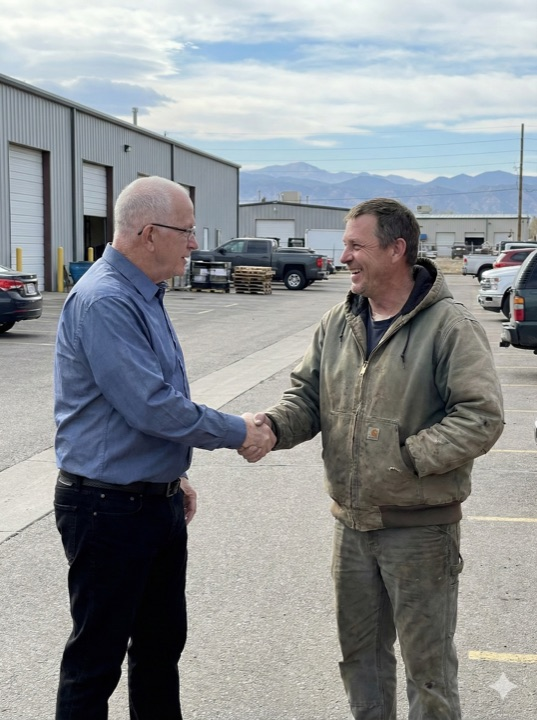
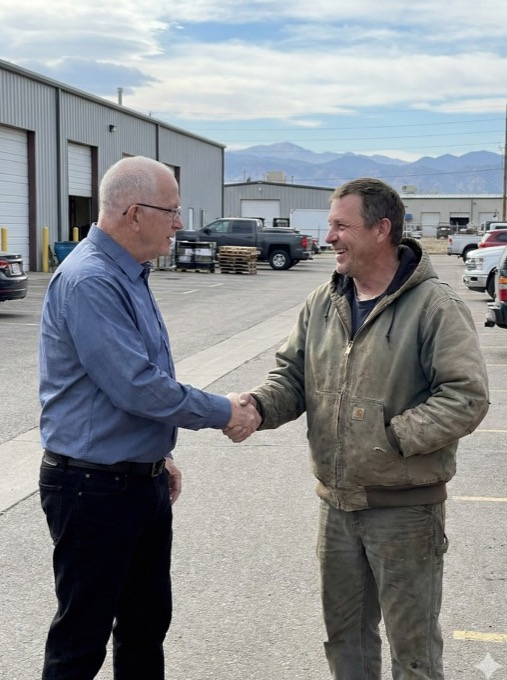
Crop watermark from Colorado image, expand section copy, fix text color
- Cropped Gemini watermark from bottom-right of stu-colorado.jpg
- Expanded Why Colorado Only copy from 2 paragraphs to 3 (roughly doubled)
- Added .content-block--dark class so all paragraphs use primary text color

diff --git a/colorado.html b/colorado.html
@@ -108,9 +108,10 @@
         <h2>Why Colorado Only</h2>
         <div class="about-intro about-intro--wide">
           <img src="images/stu-colorado.jpg" alt="Stu Jensen meeting a fabrication shop owner outside a Colorado manufacturing facility with mountains in the background" class="stu-photo" width="360" loading="eager">
-          <div class="content-block">
-            <p>Stu Jensen has spent his career in Colorado manufacturing. He knows this market. He knows the labor pool, the supply chains, the seasonal patterns, and the specific challenges that come with running a fabrication shop in this state.</p>
-            <p>Working exclusively in Colorado isn't a limitation. It's a focus. It means <a href="about.html" class="text-link">Stu</a> knows your region, your industry peers, and the operating conditions you deal with every day. He's not flying in from out of state to learn your market on your dime.</p>
+          <div class="content-block content-block--dark">
+            <p>Stu Jensen has spent his entire career in Colorado manufacturing. He's led fabrication operations across the state for over 25 years. He knows the labor pool, the supply chains, the seasonal patterns, and the specific challenges that come with running a shop here.</p>
+            <p>That means he already understands your market before he walks through your door. He knows what it takes to recruit a good welder along the Front Range. He knows why material lead times hit different when you're a thousand miles from the nearest port. He's dealt with the same workforce shortages, the same pricing pressure, and the same customer expectations you're dealing with right now.</p>
+            <p>Working exclusively in Colorado isn't a limitation. It's a deliberate focus. <a href="about.html" class="text-link">Stu</a> knows your region, your industry peers, and the operating conditions you deal with every day. He's not flying in from out of state to learn your market on your dime. He's already here. He's been here. And that means the <a href="services.html" class="text-link">Profit Recovery audit</a> starts with real knowledge of your environment, not a generic playbook borrowed from a shop in Ohio.</p>
           </div>
         </div>
       </div>

diff --git a/css/style.css b/css/style.css
@@ -490,6 +490,9 @@ strong { font-weight: 600; }
 .content-block p strong {
   color: var(--text-primary);
 }
+.content-block--dark p {
+  color: var(--text-primary);
+}
 
 /* Bold-lead paragraphs (services "What this is NOT") */
 .bold-lead {
